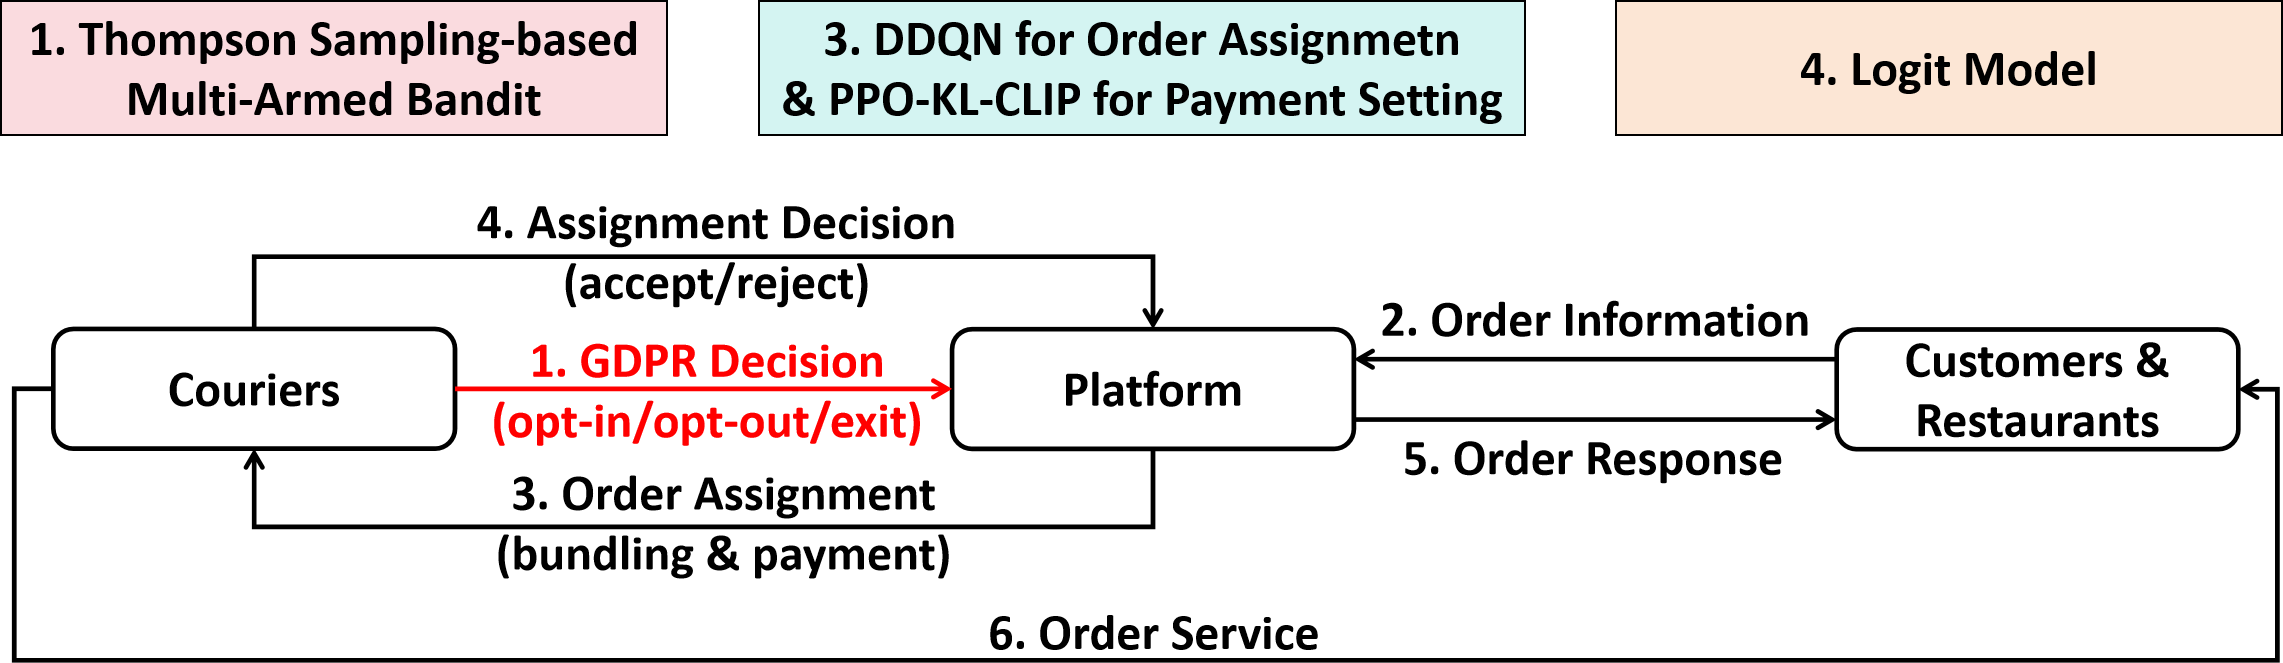
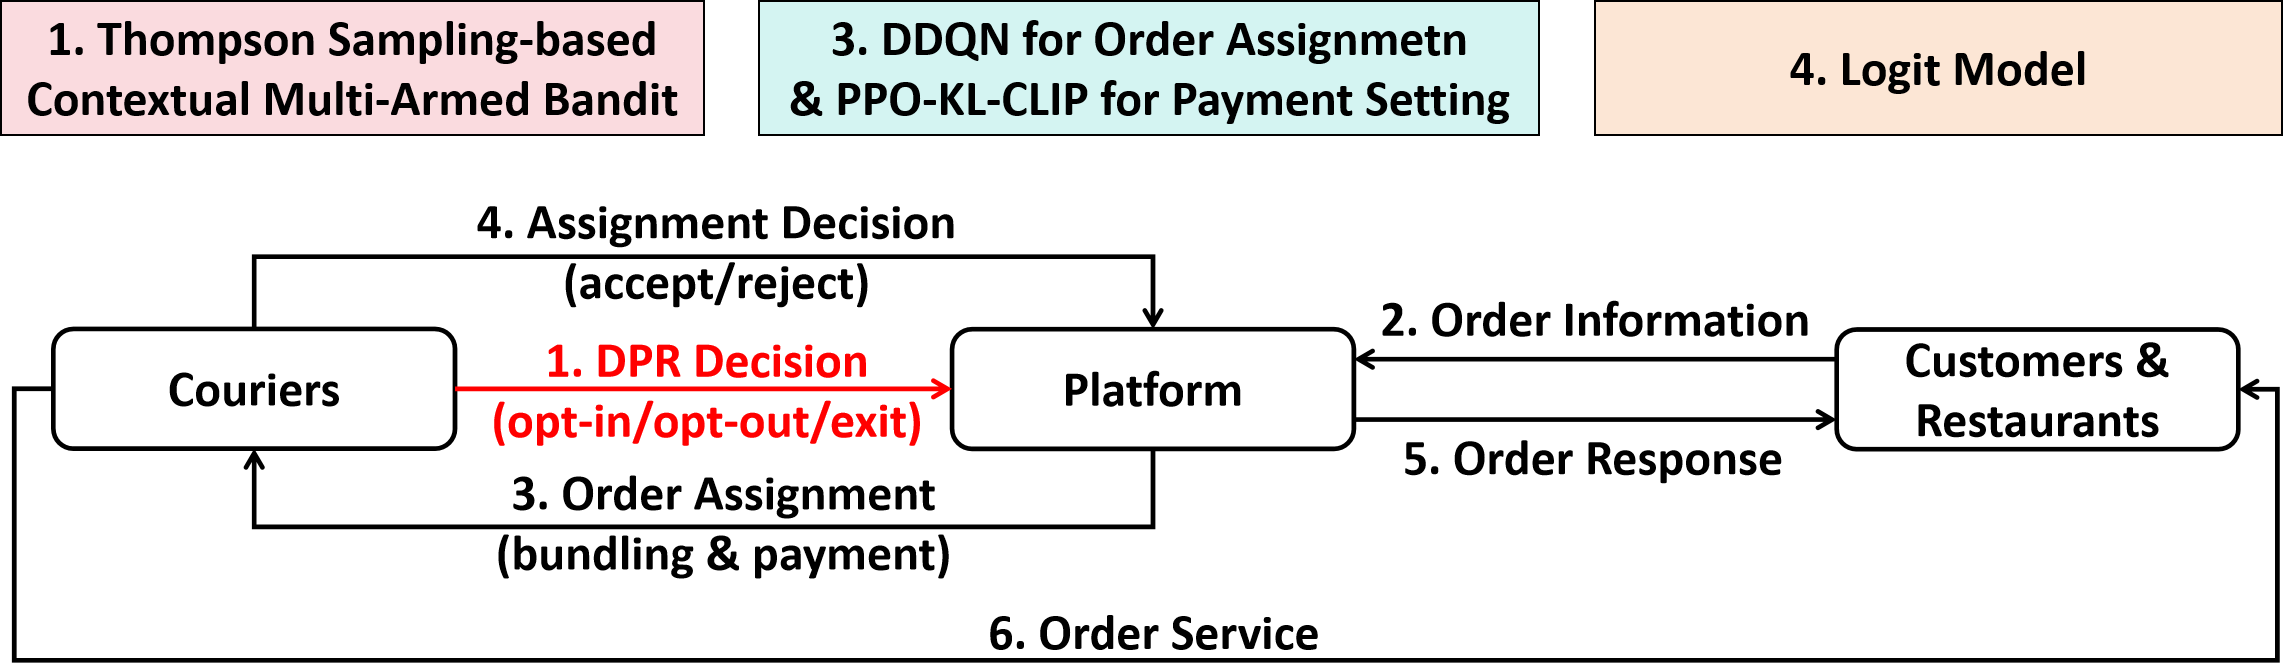
update latest version

diff --git a/models.py b/models.py
@@ -128,9 +128,9 @@ class Attention_Score(nn.Module):
         for i in range(self.head):
             query=self.q_linear[i](q)
             key=self.k_linear[i](k)
-            key = key ** 2
-            norms = torch.norm(key, dim=1, keepdim=True) + 1e-8
-            key = key / norms
+            # key = key ** 2
+            # norms = torch.norm(key, dim=1, keepdim=True) + 1e-8
+            # key = key / norms
 
             attn = torch.mm(query,key.T)
             if self.head == 1:

diff --git a/README.md b/README.md
@@ -1,14 +1,14 @@
-# GFD: GDPR Food Delivery
+# DFD: Data-privacy-regulation Food Delivery
 
-**Article:** Zijian Zhao, Sen Li*, "The Impact of GDPR on On-Demand Food-Delivery Platforms with Discriminatory Order Assignment and Personalized Courier Payment" (under way)
+**Article:** 
+Zijian Zhao, Sen Li\*, "The Impact of GDPR on On-Demand Food-Delivery Platforms with Discriminatory Order Assignment and Personalized Courier Payment" (under review)
+Zijian Zhao, Sen Li\*, "Discriminatory Order Assignment and Payment-Setting on Food-Delivery Platforms: A Multi-Action and Multi-Agent Reinforcement Learning Framework" (under revise)
 
-
+**Previous Repository: **
+[RS2002/Double-PDF: Official Repository for The Paper, Discriminatory Order Assignment and Payment-Setting on Food-Delivery Platforms: A Multi-Action and Multi-Agent Reinforcement Learning Framework](https://github.com/RS2002/Double-PDF)
 
 **Notice:**
-
-1. Please note there is a bug in detour time calculation and we will fix it later.
-2. We have improved the model according to our latest work [Triple-BERT](https://github.com/RS2002/Triple-BERT). The original version is in the `ori` folder.
-3. The code is based on our previous work [RS2002/Double-PDF: Official Repository for The Paper, Discriminatory Order Assignment and Payment-Setting on Food-Delivery Platforms: A Multi-Action and Multi-Agent Reinforcement Learning Framework](https://github.com/RS2002/Double-PDF).
+Please note there is a bug in detour time calculation and we will fix it later.
 
 
 
